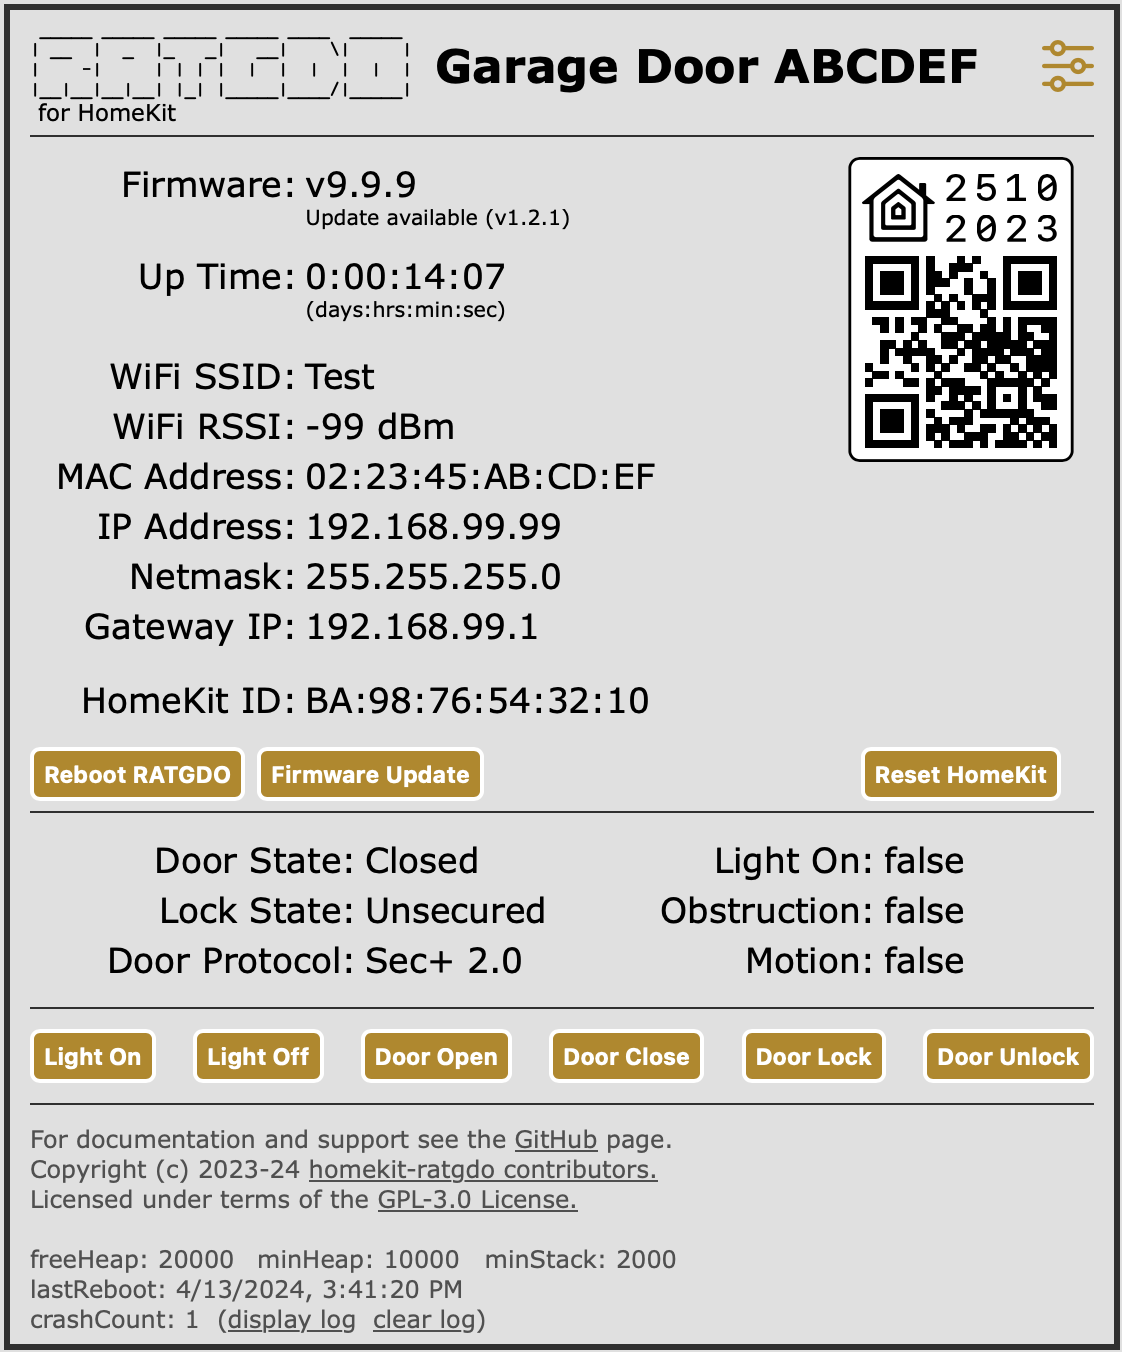
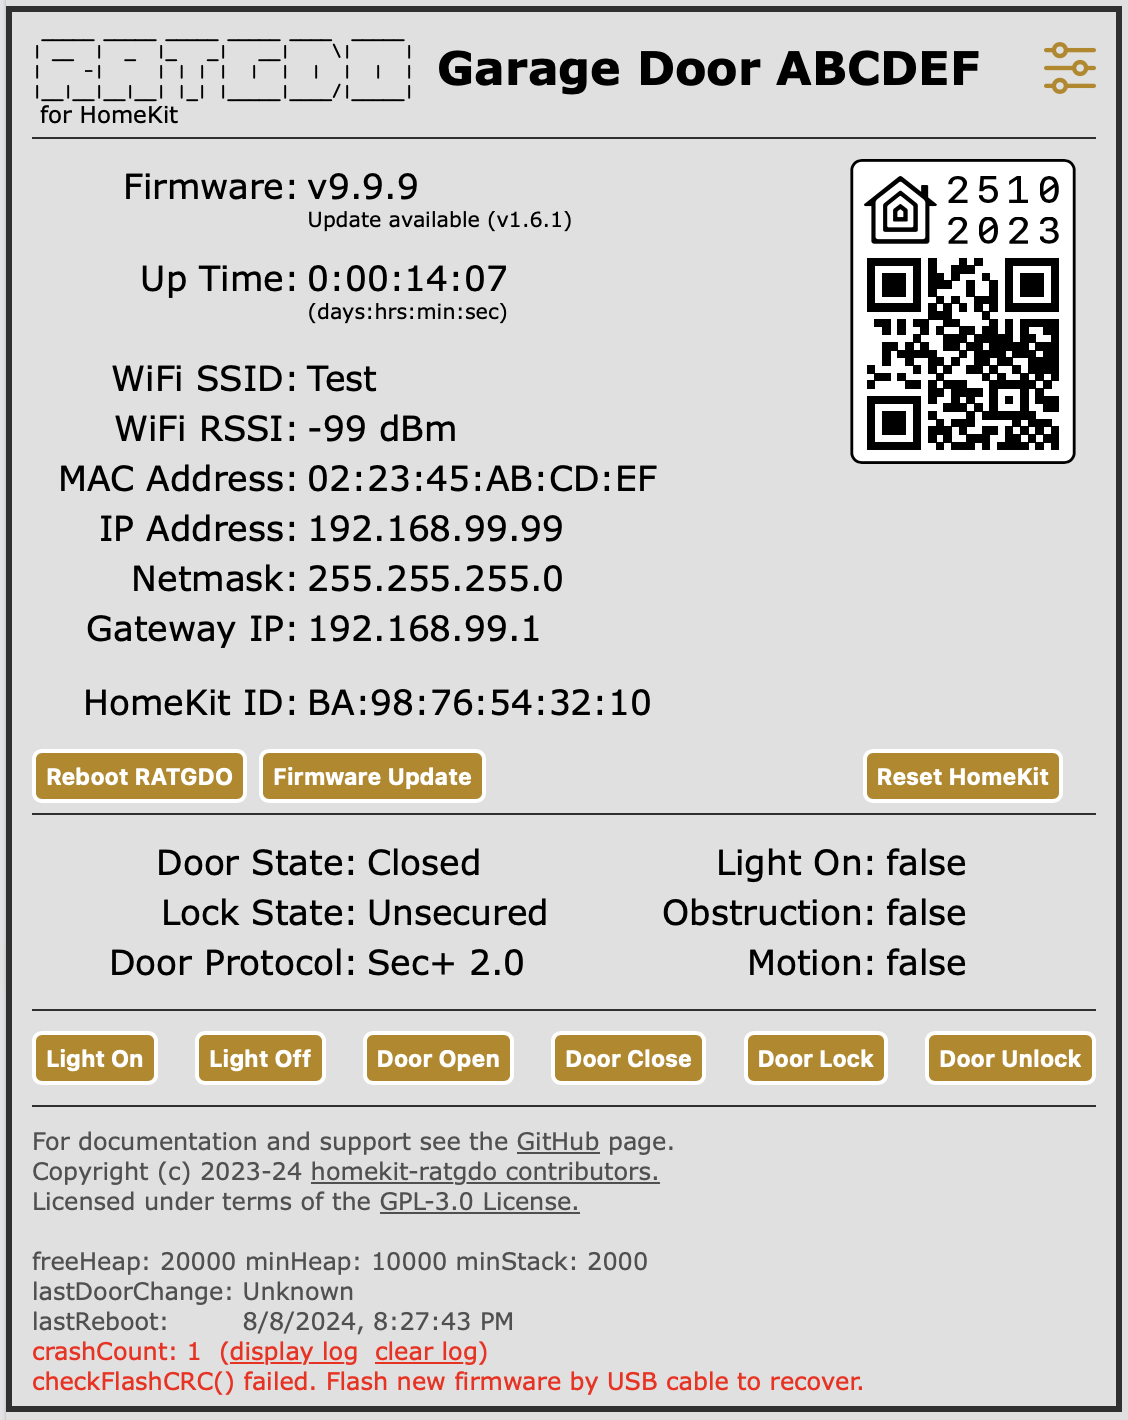
Update README. CHANGELOG and web page screen shots

Changed region(s): [[0.0, 0.0, 0.9982, 1.0], [0.3743, 0.0311, 0.8734, 0.0621]]

diff --git a/CHANGELOG.md b/CHANGELOG.md
@@ -2,6 +2,73 @@
 
 All notable changes to `homekit-ratgdo` will be documented in this file. This project tries to adhere to [Semantic Versioning](http://semver.org/).
 
+## v1.7.0 (2024-08-10)
+
+### What's Changed
+
+* Removed the heap fragmentation tracking introduced in v1.6.1... it was occasionally crashing inside Arduino library.
+* Bugfix... device reboot countdown timer from 30 seconds to zero was not always displaying.
+* New feature... add _reset door_ button. This resets the Sec+ 2.0 rolling code and whether the door has a motion sensor or not.
+* New feature... add option to trigger motion sensor on user pressing wall panel buttons (door open/close, light and/or lock).
+* New feature... add option to trigger motion sensor on door obstruction.
+* New feature... add option for user to select whether the LED light remains on while device is idle or turns off.  Any activity causes the LED to flash.
+
+### Known Issues
+* Random crashes inside the MDNSresponder code which usually occur shortly after booting or when something significant changes on the network that causes a strom of mDNS messages. Ratgdo always recovers. Tracked in https://github.com/ratgdo/homekit-ratgdo/issues/211, https://github.com/ratgdo/homekit-ratgdo/issues/223
+* Random crashes inside the WiFi stack possibly associated with failing to connect to WiFi access point.  Tracked in https://github.com/ratgdo/homekit-ratgdo/issues/215, https://github.com/ratgdo/homekit-ratgdo/issues/218, https://github.com/ratgdo/homekit-ratgdo/issues/223
+* Occasional failure to connect to WiFi. Tracked in https://github.com/ratgdo/homekit-ratgdo/issues/217
+
+## v1.6.1 (2024-07-28)
+
+### What's Changed
+* Fixes to SEC1.0 when no DIGITAL wall panel connected by @mitchjs in https://github.com/ratgdo/homekit-ratgdo/pull/208
+* Improve memory heap usage tracking and logging to assist with future debugging
+* Cleaned up numerous compiler warnings
+
+The only functional change in this release is to better support Sec+ 1.0 garage door openers when there is no digital wall panel.  Upgrading is therefore optional if your GDO is Sec+ 2.0.
+
+## v1.6.0 (2024-06-17)
+
+### What's Changed
+* Documentation updates and test HomeKit server running by @dkerr64 in https://github.com/ratgdo/homekit-ratgdo/pull/197
+* Fix a bug in HomeKit library was not not always correctly updating characteristics by @jgstroud in https://github.com/ratgdo/homekit-ratgdo/pull/204 Thanks @hjdhjd for pointing me in the right direction
+* Get status on boot by @jgstroud in https://github.com/ratgdo/homekit-ratgdo/pull/205
+* Make obstruction detection ignore spurrious detections by @jgstroud in https://github.com/ratgdo/homekit-ratgdo/pull/206
+
+## v1.5.0 (2024-06-03)
+
+### What's Changed
+* Firmware verification working branch by @dkerr64 in https://github.com/ratgdo/homekit-ratgdo/pull/193
+
+Fixes several critical bugs.  Recommended for all users to upgrade.  @dak64 identified some storage issues in the homekit library and corrected them.  This should address #194 #189 #184
+
+**NOTE: You will need to re-pair with HomeKit after installing this update.**
+The most reliable way to do this is 1) erase from Apple Home, 2) reset/re-pair button on ratgdo, 3) kill Apple Home and restart it and 4) scan the QR code.
+
+## v1.4.0 (2024-05-30)
+
+### What's Changed
+* Fixes / features for next release. by @dkerr64 and @jgstroud in https://github.com/ratgdo/homekit-ratgdo/pull/191
+* Remove old redundant code
+* Save logs on clean shutdown
+* Check flash CRC on upload complete
+* Add a full flash verify on upload to make sure contents are written properly to flash
+* Change wifi persist to false.  was writing wifi settings to flash multiple times on each boot.  known to cause issues.  #192
+
+Lots of changes mainly focuses on trying to prevent flash corruptions.
+
+## v1.4.0 (2024-05-21)
+
+### What's Changed
+* Fixes and features for next release by @dkerr64 in https://github.com/ratgdo/homekit-ratgdo/pull/175
+  - Back out usage of secondary IRAM heap. This was causing some users to not be able to access the webUI.  Fixes #173 
+  - Change webUI structure for memory optimization
+  - Add script to remotely monitor logs
+  - Document CLI control in the README
+* New prerelease check by @jgstroud in https://github.com/ratgdo/homekit-ratgdo/pull/170
+* v1.3.5 in changeling by @donavanbecker in https://github.com/ratgdo/homekit-ratgdo/pull/169
+* Wait before publishing release to discord by @donavanbecker in https://github.com/ratgdo/homekit-ratgdo/pull/168
+
 ## v1.3.5 (2024-05-01)
 
 ### What's Changed

diff --git a/README.md b/README.md
@@ -94,13 +94,25 @@ You can select up-to 60 second delay before door starts closing. During the dela
 
 If selected then all the action buttons _except reboot_, and access to the settings page, will require authentication.  Default is not required.
 
+### LED on when idle
+
+If selected then the LED light on the ratgdo device will remain illuminated when the device is idle and flash off when there is activity.  If you prefer the LED to remain off while idle then unselect this checkbox and the LED to flash on with activity.
+
+### Motion Triggers
+
+This allows you to select what causes the HomeKit motion sensor accessory to trigger.  The default is to use the motion sensor built into the garage door opener, if it exists.  This checkbox is not selectable because presence of the motion sensor is detected automatically... based on detecting motion in the garage.  If your door opener does not have a motion sensor then the checkbox will show as un-checked.
+
+Motion can also be triggered by the obstruction sensor and by pressing the door, light or lock buttons on the door opener wall panel.  These are disabled by default but may be selected on the web page.
+
+Changing this setting will cause a reboot only if changing from no motion sensor to any selection that triggers motion, or vis versa.
+
 ### Receive Logs
 
 This option is not available on mobile devices. On a desktop browser all server firmware logs can be displayed in the javascript console log. On some browsers you may need to enable developer mode before you can open the javascript console.
 
 ### Door Protocol
 
-Set the protocol for your model of garage door opener.  This defaults to Security+ 2.0 and you should only change this if necessary.
+Set the protocol for your model of garage door opener.  This defaults to Security+ 2.0 and you should only change this if necessary.  Note that the changing the door protocol also resets the door opener rolling codes and whether there is a motion sensor (this will be automatically detected after reset).
 
 ### WiFi Version
 
@@ -113,6 +125,10 @@ You can set the WiFi transmit power to between 0 and 20 dBm. It defaults to the 
 ### Reboot Every
 
 During early devlopment there were several reports that the ratgdo device would reset itself and loose its pairing with HomeKit. To reduce the chance of this occuring a regular (e.g. daily) reboot of the device provided a work-around. The firmware is far more stable now and it is hoped that this is no longer required. This setting may be removed in future versions.
+
+### Reset Door
+
+This button resets the Sec+ 2.0 rolling codes and whether your door opener has a motion sensor. This may be necessary if the ratgdo device gets out-of-sync with what the door opener expects.  Selecting this button requires the ratgdo to reboot and does not save any new settings.
 
 ## How do I upgrade?
 
